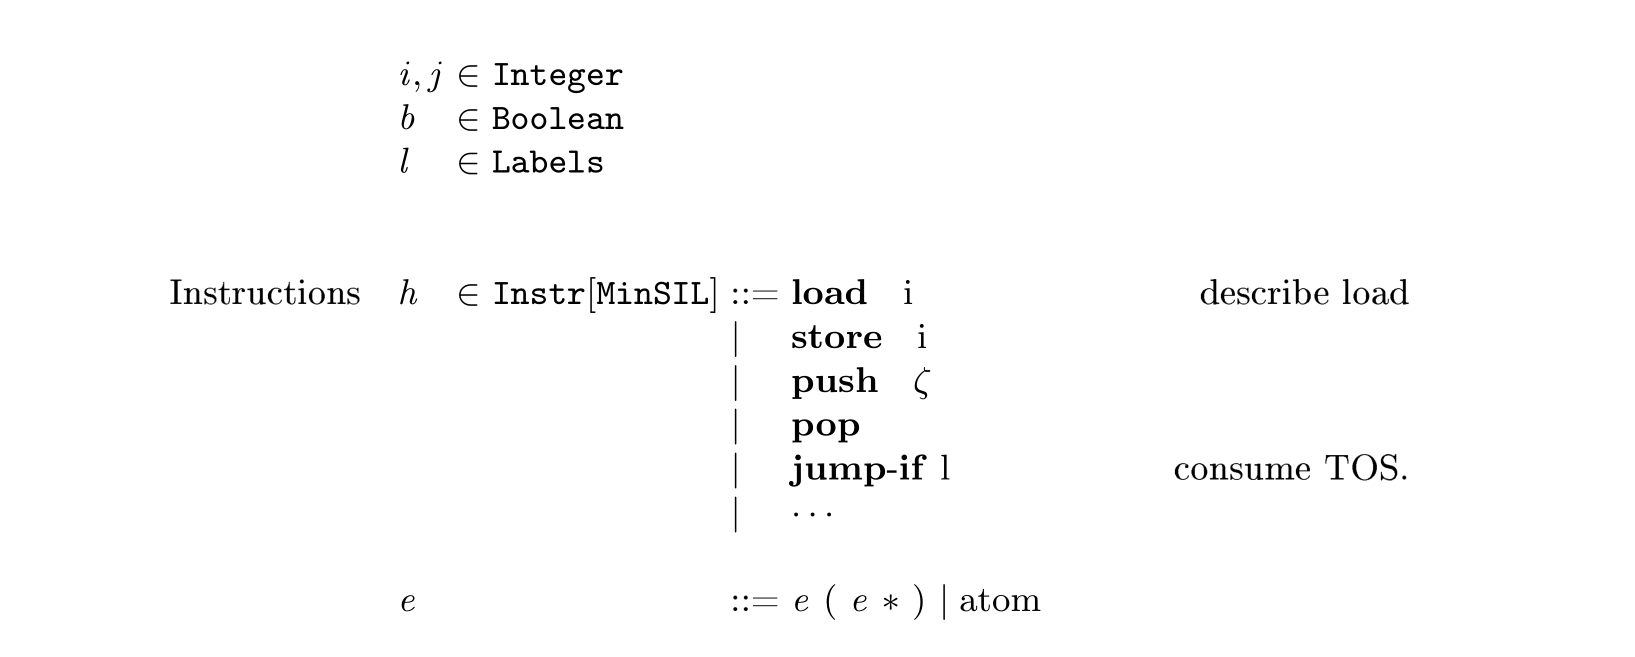
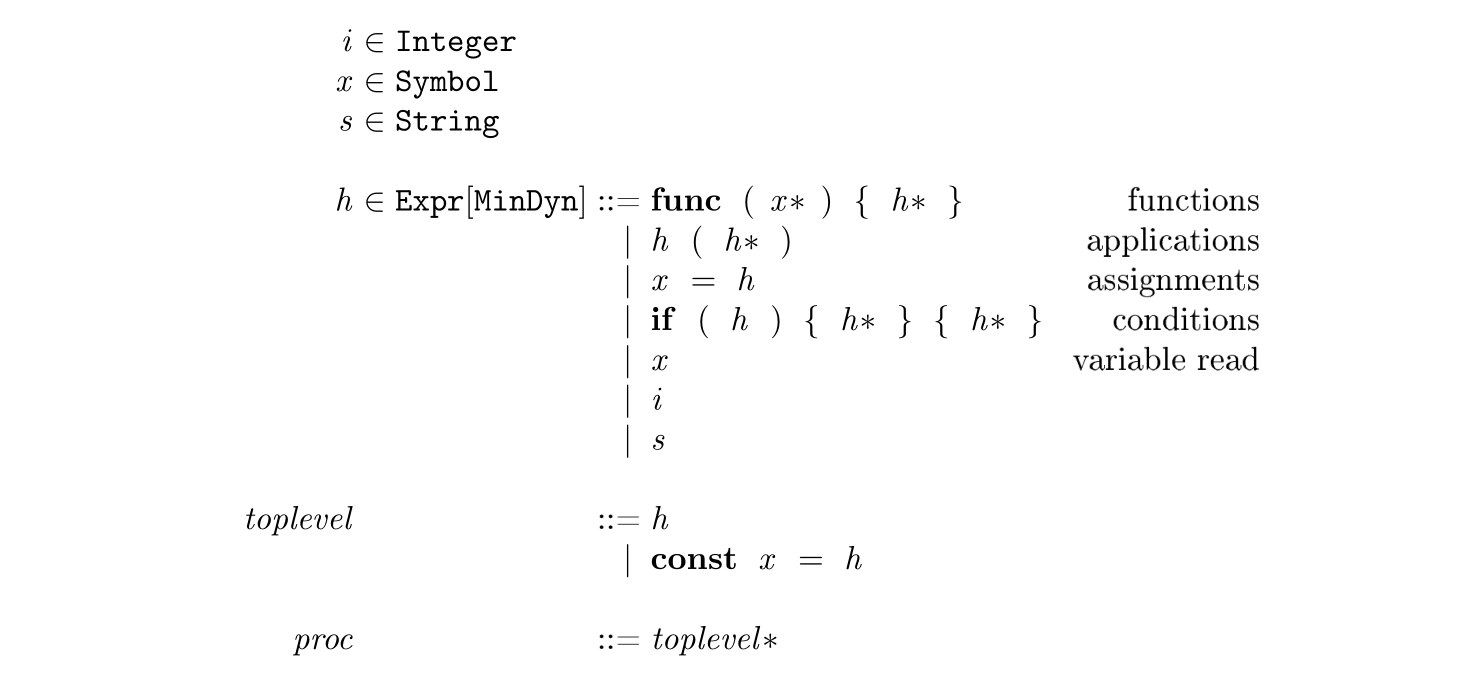
update readme

diff --git a/README.md b/README.md
@@ -10,20 +10,22 @@ Use this package with `gkdtex`:
 
 ```tex
 \gkd@bnf{
-<i, j> :: Integer
-<b> :: Boolean
-<l> :: Labels
+<i> :: Integer
+<x> :: Symbol
+<s> :: String
 
+<h> :: !Expr[MinDyn]! = \mathbf{func} (\! <x*> \!) \{ <h*> \} %%% functions
+        | <h> ( <h*> ) %%% applications
+        | <x> = <h>   %%% assignments
+        | \mathbf{if} ( <h> ) \{ <h*> \} \{ <h*> \} %%% conditions
+        | <x> %%% variable read
+        | <i>
+        | <s>
 
-!Instructions! <h> :: !Instr[MinSIL]! = \mathbf{load} \; i         %%% \qquad  \qquad  describe load 
-                                     |  \mathbf{store} \; i
-                                     |  \mathbf{push} \; \zeta 
-                                     |  \mathbf{pop}
-                                     |  \mathbf{jump\mbox{-}if} l %%%   consume TOS.
-                                     |  \cdots
-
-<e> ::= <e> ( <e> * ) |  atom
-
+<toplevel> ::= <h>
+        | \mathbf{const} <x> = <h>
+        
+<proc> ::= <toplevel*>
 }
 ```
 
